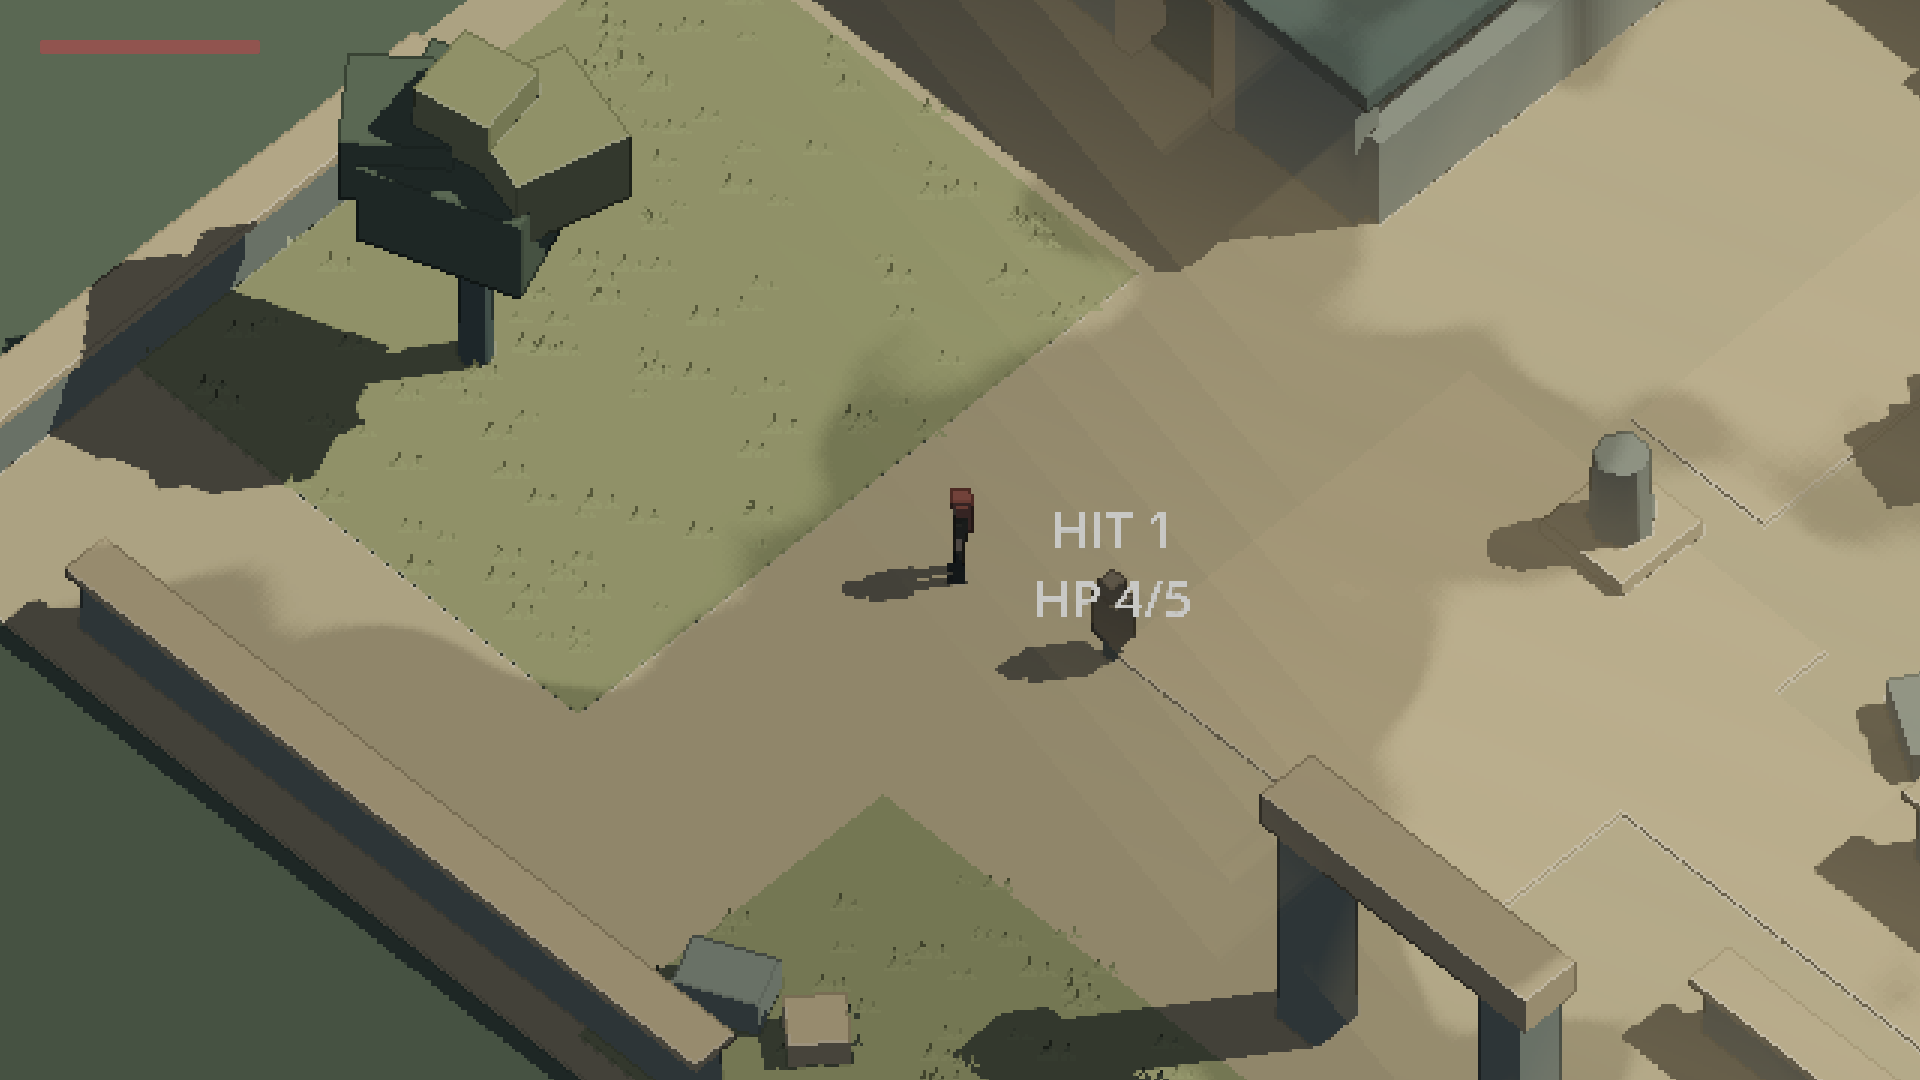
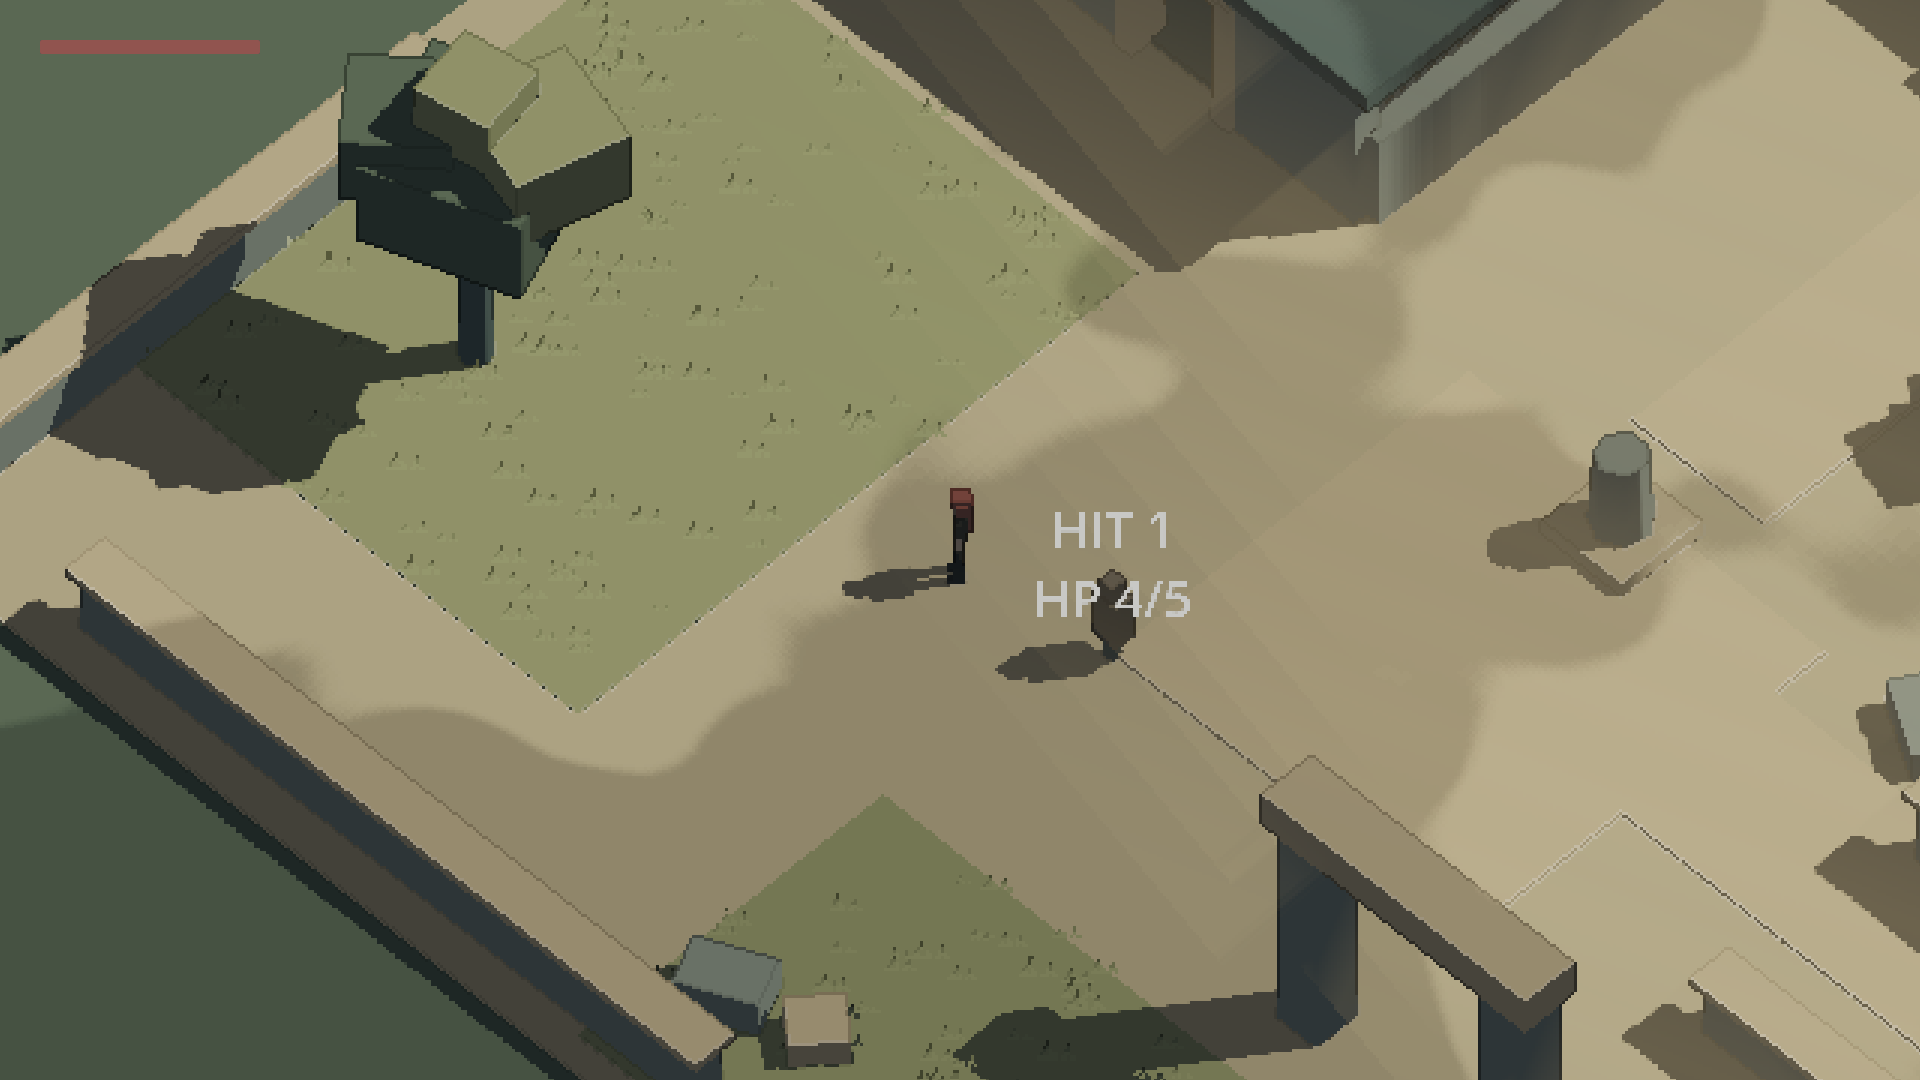
chore: 캡처 전체 재생성 (공격/낮은 해/계단 포함), 러너 공격 캡처 타이밍 보강
Claude-Session: https://claude.ai/code/session_016gyXLDHRMNEPYEZZrdjNcN

diff --git a/docs/captures/README.md b/docs/captures/README.md
@@ -12,5 +12,7 @@
 | 08_stairs_terrace.png | 계단(램프 충돌)으로 오른 1 m 테라스, 더미 02 |
 | 09_dodge_back.png | Shift (입력 없음) — 시선 유지한 채 뒤로 백스텝, 웅크림 포즈 |
 | 10_dodge_left.png | ← + Shift — 왼쪽으로 몸을 던지는 점프 |
+| 11_no_shafts_no_grass.png | 갓레이·잔디 OFF (비교용) |
+| 12_shafts_grass.png | 갓레이·잔디 ON — 셸 볼류메트릭, LIGHT_VERTEX 잔디, 구름 그림자 |
 
 재생성: `godot --path game -s tools/capture_runner.gd` → `user://captures/`
